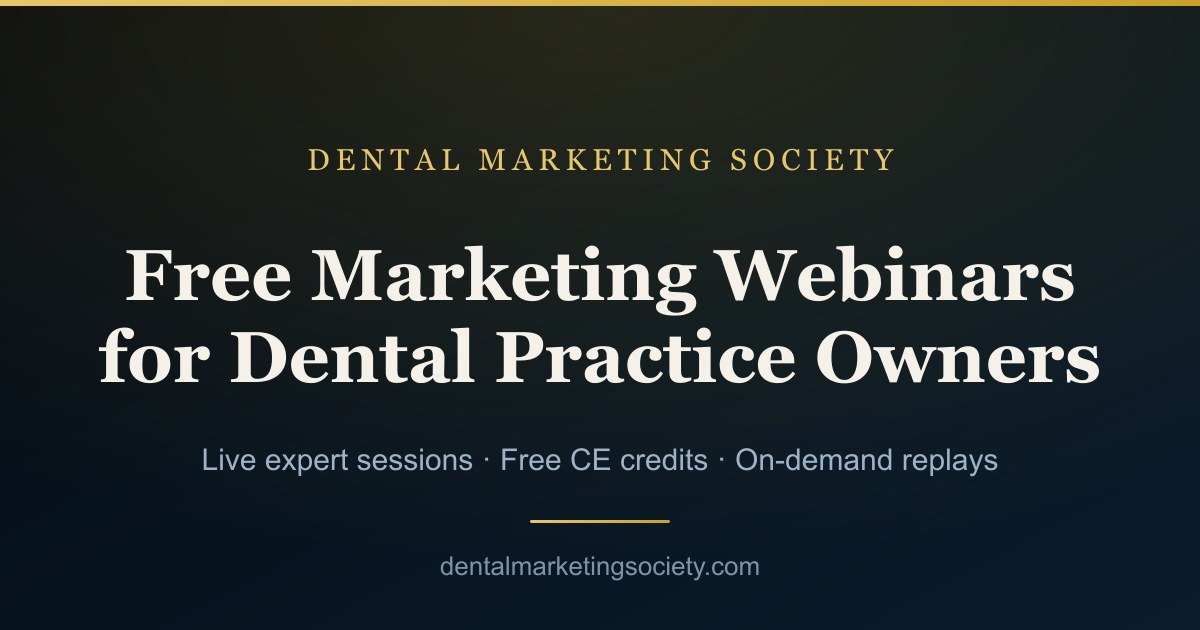
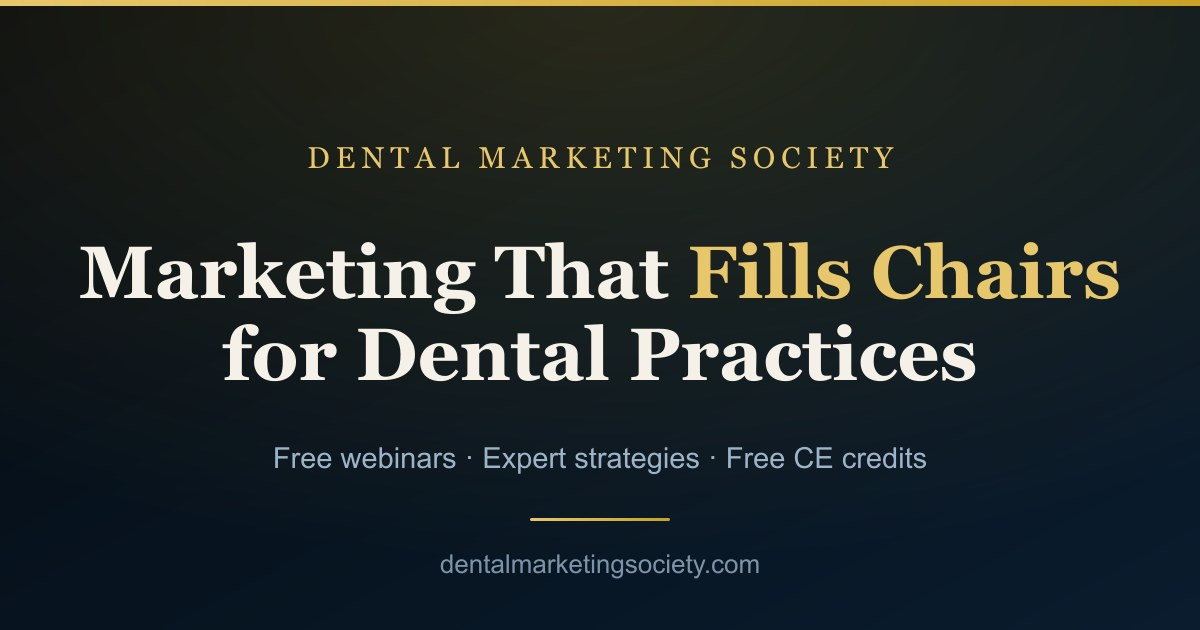
modify tagline

diff --git a/components/views/AuditView.tsx b/components/views/AuditView.tsx
@@ -1,6 +1,7 @@
 "use client";
 
 import Link from "next/link";
+import Image from "next/image";
 import { useState } from "react";
 import { motion } from "framer-motion";
 import Icon, { type IconName } from "@/components/Icon";
@@ -11,6 +12,7 @@ import { Section, SectionHead } from "@/components/Section";
 import { FeatureCard, StatBand, CtaBand } from "@/components/blocks";
 import { useReviews } from "@/lib/useDmsData";
 import { SITE } from "@/lib/site";
+import { asset } from "@/lib/asset";
 
 const INCLUDED: { icon: IconName; title: string; text: string }[] = [
   { icon: "users", title: "Patient Quality Audit", text: "A clear look at where your patients come from and how treatment acceptance is trending." },
@@ -77,9 +79,13 @@ export default function AuditView() {
             </Reveal>
             <Reveal delay={0.34}>
               <div className="mt-8 flex items-center gap-4">
-                <span className="font-display flex h-12 w-12 items-center justify-center rounded-full border border-gold-500/40 bg-gold-500/10 text-lg font-bold text-gold-300">
-                  NA
-                </span>
+                <Image
+                  src={asset("/assets/naren.jpg")}
+                  alt="Naren Arulrajah, Founder of Dental Marketing Society"
+                  width={48}
+                  height={48}
+                  className="h-12 w-12 rounded-full border border-gold-500/40 object-cover"
+                />
                 <span className="text-sm text-mist">
                   Hosted by <b className="block text-ivory">Naren Arulrajah</b>
                   15+ years in dental marketing

diff --git a/components/views/HomeView.tsx b/components/views/HomeView.tsx
@@ -49,15 +49,14 @@ export default function HomeView() {
           </Reveal>
           <Reveal delay={0.1}>
             <h1 className="h-display mx-auto mt-6 max-w-4xl text-5xl leading-[1.06] sm:text-6xl lg:text-7xl">
-              Marketing Webinars For{" "}
-              <em className="text-shimmer not-italic">Dental Practice</em> Owners
+              Marketing That{" "}
+              <em className="text-shimmer not-italic">Fills Chairs</em> For Dental Practices
             </h1>
           </Reveal>
           <Reveal delay={0.2}>
             <p className="mx-auto mt-6 max-w-2xl text-lg leading-relaxed text-mist">
-              Fill your calendar with new patients and expand your marketing
-              knowledge. Learn the digital strategies that grow modern dental
-              practices, straight from the people who do it every day.
+              Free webinars, expert strategies, and CE credits, plus a free
+              diagnosis of your practice&apos;s online marketing.
             </p>
           </Reveal>
           <Reveal delay={0.3}>
@@ -66,7 +65,7 @@ export default function HomeView() {
                 Register for a Webinar <Icon name="arrow" size={16} />
               </Link>
               <Link href="/msm" className="btn-ghost btn-lg">
-                Book a Free Meeting
+                Diagnose My Online Marketing
               </Link>
             </div>
           </Reveal>